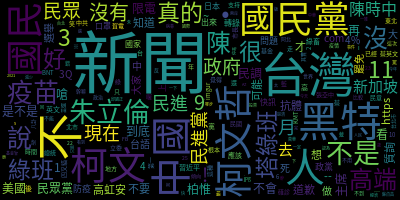
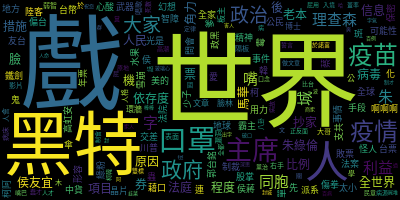
okkkkk

diff --git a/wdcloud.py b/wdcloud.py
@@ -10,9 +10,10 @@ from wordcloud import WordCloud
 #from udicOpenData.dictionary import *##助教給的dictionary,後來沒用因為很醜
 from PIL import Image
 import jieba
+import jieba.posseg as pseg
 import numpy as np
 from collections import Counter
-file = open("HatePolitics.json",'r',encoding='utf-8')
+file = open("hateee.json",'r',encoding='utf-8')
 papers = " "
 ###U have to follow the step to open the distinct file
 ###def wdcloud(file):
@@ -25,22 +26,28 @@ for line in file.readlines():
 #dump2es.py jieba
 jieba.set_dictionary('2021-10-12 dict.txt.big.txt')
 #print("lalala")
-jieba.add_word('柯文哲')
-jieba.add_word('陳時中')
-jieba.add_word('張亞中')
-jieba.add_word('朱立倫')
-jieba.add_word('國民黨')
-jieba.add_word('民眾黨')
-jieba.add_word('民進黨')
-jieba.add_word('台灣')
-jieba.add_word('高端')
-jieba.add_word('塔綠班')                            ####要自己多增加常用字，這個是for 政黑板
+jieba.add_word('柯文哲 99 n')
+jieba.add_word('陳時中 99 n')
+jieba.add_word('張亞中 99 n')
+jieba.add_word('朱立倫 99 n')
+jieba.add_word('國民黨 99 n')
+jieba.add_word('民眾黨 99 n')
+jieba.add_word('民進黨 99 n')
+jieba.add_word('台灣 99 n')
+jieba.add_word('高端 99 n')
+jieba.add_word('塔綠班 99 n')                            ####要自己多增加常用字，這個是for 政黑板
 
 with open('stops.txt', 'r', encoding='utf8') as f:  ####中文的停用字，我也忘記從哪裡拿到的，效果還可以，繁體字的資源真的比較少，大家將就一下吧
     stops = f.read().split('\n') 
 stops.extend(['Re','討論','「','的','民黨','會','都',' ','\n'])
-terms = [t for t in jieba.pseg.cut(papers,cut_all=False) if t not in stops]
-print(terms)
+term1s = [t for t in pseg.cut(papers) if t not in stops]
+#terms = [t for t in jieba.cut(papers) if t not in stops]
+#print(type(terms))
+terms=[]
+for term1 in term1s:
+    if term1.flag in ["n","nr"]:
+        terms.append(term1.word)
+#print(terms)
 sorted(Counter(terms).items(), key=lambda x:x[1], reverse=True)
 list_terms=Counter(terms)
 
